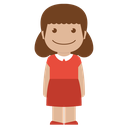
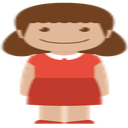
/Peek/ at child accounts using secret key

diff --git a/client/src/screens/Peek.js b/client/src/screens/Peek.js
@@ -1,0 +1,102 @@
+import React, { useState, useEffect } from 'react'
+import { Container, Card, CardDeck, ListGroup } from 'react-bootstrap'
+import axios from 'axios'
+
+const Peek = ({ match }) => {
+  const [child, setChild] = useState({})
+  const id = match.params.id
+  const secret = match.params.secret
+
+  const displayDate = (date) => {
+    return new Date(date).toLocaleDateString('en-US', {
+      year: 'numeric',
+      month: 'long',
+      day: 'numeric',
+    })
+  }
+
+  useEffect(() => {
+    const fetchPeek = async () => {
+      try {
+        const url = `/api/child/${id}/${secret}`
+        const res = await axios.get(url)
+        if (res.status === 200) {
+          setChild(res.data)
+        } else {
+          // @todo Alert failure
+        }
+      } catch (error) {
+        // @todo Alert failure
+        setChild({})
+      }
+    }
+    fetchPeek()
+  }, [id, secret])
+
+  let fundList = null
+  if (child.funds) {
+    fundList = child.funds.map((fund) => (
+      <ListGroup.Item
+        key={fund._id}
+      >{`${fund.name}: $${fund.balance}`}</ListGroup.Item>
+    ))
+  }
+
+  let deposits = null
+  if (child.recentDeposits) {
+    deposits = child.recentDeposits.map((deposit) => (
+      <ListGroup.Item key={deposit._id}>{`${displayDate(deposit.date)}: ${
+        deposit.action
+      }`}</ListGroup.Item>
+    ))
+  }
+
+  let withdrawals = null
+  if (child.recentWithdrawals) {
+    withdrawals = child.recentWithdrawals.map((withdrawal) => (
+      <ListGroup.Item key={withdrawal._id}>{`${displayDate(withdrawal.date)}: ${
+        withdrawal.action
+      }`}</ListGroup.Item>
+    ))
+  }
+
+  return (
+    <Container>
+      <CardDeck>
+        <Card>
+          <Card.Header>
+            {child.avatar && (
+              <Card.Img
+                variant='top'
+                className='avatar'
+                src={`/avatars/${child.avatar}`}
+              />
+            )}
+            <div style={{ height: '100%', padding: '1.6rem 0' }}>
+              <h3>{child.name}</h3>
+            </div>
+          </Card.Header>
+
+          <ListGroup variant='flush'>{fundList}</ListGroup>
+
+          <Card.Body className='borderBottom'>
+            <Card.Title>Recent Deposits</Card.Title>
+            <ListGroup variant='flush'>{deposits}</ListGroup>
+          </Card.Body>
+
+          <Card.Body>
+            <Card.Title>Recent Withdrawals</Card.Title>
+            <ListGroup variant='flush'>{withdrawals}</ListGroup>
+          </Card.Body>
+          <Card.Footer>
+            <small className='text-muted'>
+              Last updated {displayDate(child.updatedAt)}
+            </small>
+          </Card.Footer>
+        </Card>
+      </CardDeck>
+    </Container>
+  )
+}
+
+export default Peek

diff --git a/server/seedData/children.js b/server/seedData/children.js
@@ -14,7 +14,7 @@ let today = new Date()
 
 const children = [
   {
-    name: 'Frodo',
+    name: 'Frodo Bagginses',
     recentDeposits: [
       {
         action: '+ $5.00 Allowance',
@@ -53,18 +53,18 @@ const children = [
       },
       {
         name: 'Savings',
-        balance: 47.23,
+        balance: 5.32,
         percentage: 5,
       },
       {
         name: 'Charity',
-        balance: 47.23,
+        balance: 8.45,
         percentage: 10,
       },
     ],
   },
   {
-    name: 'Arwen',
+    name: 'Arwen the Elf',
     recentDeposits: [
       {
         action: '+ $1.50 Allowance',
@@ -113,7 +113,7 @@ const children = [
     ],
   },
   {
-    name: 'Samwise',
+    name: 'Samwise Gamer',
     recentDeposits: [
       {
         action: '+ $0.01 found a penny',
@@ -143,7 +143,6 @@ const children = [
       },
     ],
     secret: '4uTe2H72YnezKhdcgNnTsEPet652BxQ5',
-    avatar: 'frodo.png',
     funds: [
       {
         name: 'Spending',
@@ -163,7 +162,7 @@ const children = [
     ],
   },
   {
-    name: 'Frodo',
+    name: 'Frodo Bagginses',
     recentDeposits: [
       {
         action: '+ $5.00 Allowance',
@@ -202,18 +201,18 @@ const children = [
       },
       {
         name: 'Savings',
-        balance: 47.23,
+        balance: 5.32,
         percentage: 5,
       },
       {
         name: 'Charity',
-        balance: 47.23,
+        balance: 8.45,
         percentage: 10,
       },
     ],
   },
   {
-    name: 'Arwen',
+    name: 'Arwen the Elf',
     recentDeposits: [
       {
         action: '+ $1.50 Allowance',

diff --git a/client/src/screens/Dashboard.js b/client/src/screens/Dashboard.js
@@ -1,15 +1,54 @@
-import React from 'react'
+import React, { useState, useEffect } from 'react'
 import { Container, Row, Col } from 'react-bootstrap'
-
-const parentId = '5fc2fe3c439c84447cbc7195'
+import axios from 'axios'
 
 const Dashboard = () => {
-  d
+  const parentId = '5fc2fe3c439c84447cbc7195'
+  const [children, setChildren] = useState([])
+
+  useEffect(() => {
+    const fetchChildren = async () => {
+      try {
+        //const { data } = await axios.get(`/api/parent/${parentId}`)
+        const { data } = await axios.get(`/api/parent/${parentId}`)
+
+        /*
+        const temp = data.map((child) => {
+          setChildren((prev) => [...prev, JSON.stringify(child)])
+        })
+        */
+
+        data.array.forEach((element) => {
+          setChildren((prev) => [...prev, JSON.stringify(element)])
+        })
+
+        const second = data[1]
+        //setChildren((second) => [...children, second])
+
+        //console.log(data[0])
+
+        //console.log(data)
+      } catch (error) {
+        setChildren([])
+      }
+    }
+
+    fetchChildren()
+  }, [])
+
+  /*
+  useEffect(() => {
+    axios.get(`/api/parent/${parentId}`).then((res) => {
+      setChildren((children) => [...children, res.data])
+      console.log(children)
+    })
+  }, [])*/
+
   return (
     <Container>
       <Row xs='3'>
         <Col>
-          <h1>Dashboard column1</h1>
+          <h1>{children}</h1>
         </Col>
         <Col>
           <h1>Dashboard column2</h1>

diff --git a/client/src/App.js b/client/src/App.js
@@ -1,11 +1,16 @@
 import React from 'react'
 import { Container } from 'react-bootstrap'
-import { BrowserRouter as Router, Route, Switch } from 'react-router-dom'
+import {
+  BrowserRouter as Router,
+  Route,
+  Switch,
+  useParams,
+} from 'react-router-dom'
 import Header from './components/Header'
 import Footer from './components/Footer'
 import Landing from './screens/Landing'
 import Dashboard from './screens/Dashboard'
-import ChildView from './screens/ChildView'
+import Peek from './screens/Peek'
 import NotFound from './screens/NotFound'
 
 const App = () => {
@@ -18,12 +23,14 @@ const App = () => {
 
         <Route exact path='/dashboard' component={Dashboard} />
 
-        <Route path='/account/:id'>
+        <Route path='/account/'>
           <Container>
-            <ChildView />
+            <Peek />
             <Footer />
           </Container>
         </Route>
+
+        <Route path='/peek/:id/:secret' component={Peek} />
 
         <Route>
           <Container>

diff --git a/server/middleware/errorMiddleware.js b/server/middleware/errorMiddleware.js
@@ -1,17 +1,24 @@
 const notFound = (req, res, next) => {
-  const error = new Error(`Not Found - ${req.originalUrl}`)
+  const error = new Error(`Not Found: ${req.originalUrl}`)
   res.status(404)
   next(error)
 }
 
 const asyncErrorHandler = (err, req, res, next) => {
-  const statusCode = res.statusCode === 200 ? 500 : res.statusCode
-  res.status(statusCode)
+  if (String(err.message).substring(0, 23) === 'Cast to ObjectId failed') {
+    res.status(404)
+    err.message = `Not Found: ${req.originalUrl}`
+  } else {
+    const statusCode = res.statusCode === 200 ? 500 : res.statusCode
+    res.status(statusCode)
+  }
   res.json({
     message: err.message,
-    stack: process.env.NODE_ENV === 'production' ? null : err.stack,
   })
   next()
 }
 
 export { notFound, asyncErrorHandler }
+
+//consider more detailed error stack in dev environment
+//stack: process.env.NODE_ENV === 'production' ? null : err.stack,

diff --git a/server/routes/childRoutes.js b/server/routes/childRoutes.js
@@ -33,4 +33,23 @@ router.get(
   })
 )
 
+// @desc    Fetch single child
+// @route   GET /api/child/:id/:secret
+// @access  Public
+router.get(
+  '/:id/:secret',
+  asyncHandler(async (req, res) => {
+    const child = await Child.findOne({
+      _id: req.params.id,
+      secret: req.params.secret,
+    })
+
+    if (child) {
+      res.json(child)
+    } else {
+      res.status(404)
+      throw new Error('Child not found')
+    }
+  })
+)
 export default router

diff --git a/server/routes/parentRoutes.js b/server/routes/parentRoutes.js
@@ -12,8 +12,8 @@ router.get(
   asyncHandler(async (req, res) => {
     const children = await Child.find({ parent: req.params.id })
 
-    if (child) {
-      res.json(child)
+    if (children) {
+      res.json(children)
     } else {
       res.status(404)
       throw new Error('No children found')

diff --git a/server/server.js b/server/server.js
@@ -12,6 +12,8 @@ const app = express()
 
 app.get('/', (req, res) => res.send('API Running'))
 
+app.get('/api', (req, res) => res.send([{ name: 'Api running' }]))
+
 app.use('/api/child', childRoutes)
 app.use('/api/parent', parentRoutes)
 

diff --git a/client/src/css/index.css b/client/src/css/index.css
@@ -47,3 +47,14 @@ html {
   left: 0;
   background-color: rgba(0, 0, 0, 0.3);
 }
+
+.avatar {
+  width: 6rem;
+  height: 6rem;
+  float: left;
+  margin-right: 1rem;
+}
+
+.borderBottom {
+  border-bottom: 1px solid rgba(0, 0, 0, 0.1);
+}

diff --git a/client/src/screens/test.js b/client/src/screens/test.js
@@ -1,0 +1,10 @@
+import React from 'react'
+import PropTypes from 'prop-types'
+
+const test = (props) => {
+  return <div></div>
+}
+
+test.propTypes = {}
+
+export default test
